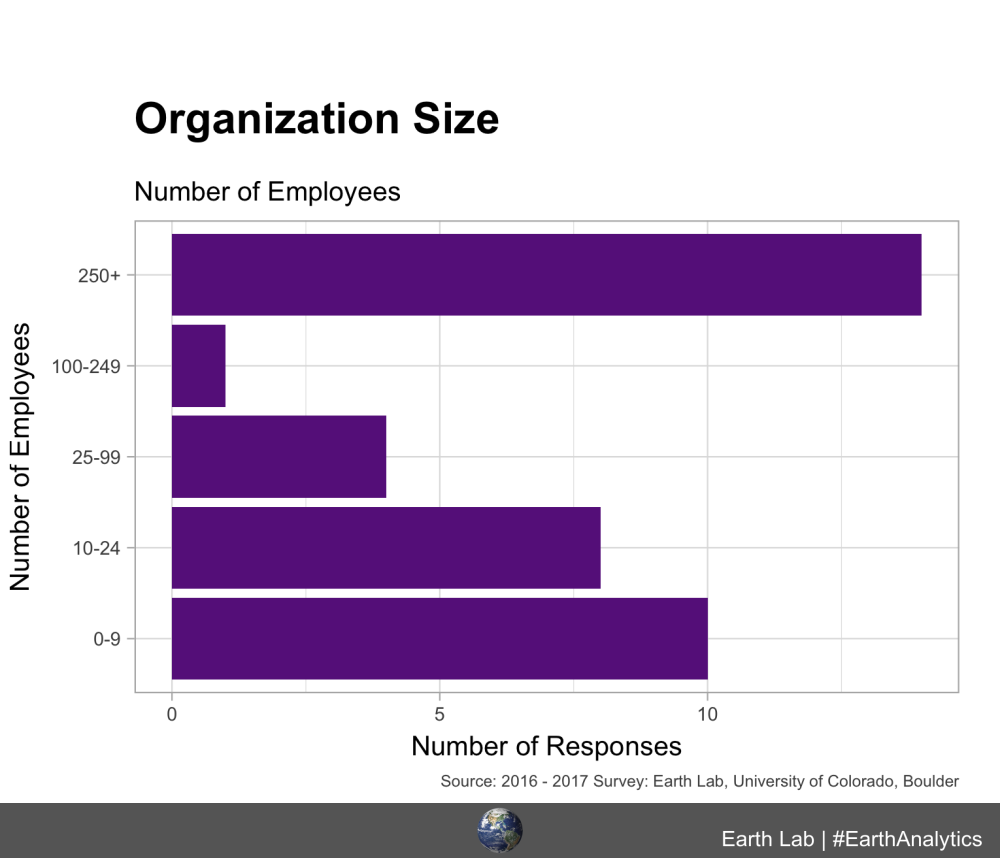
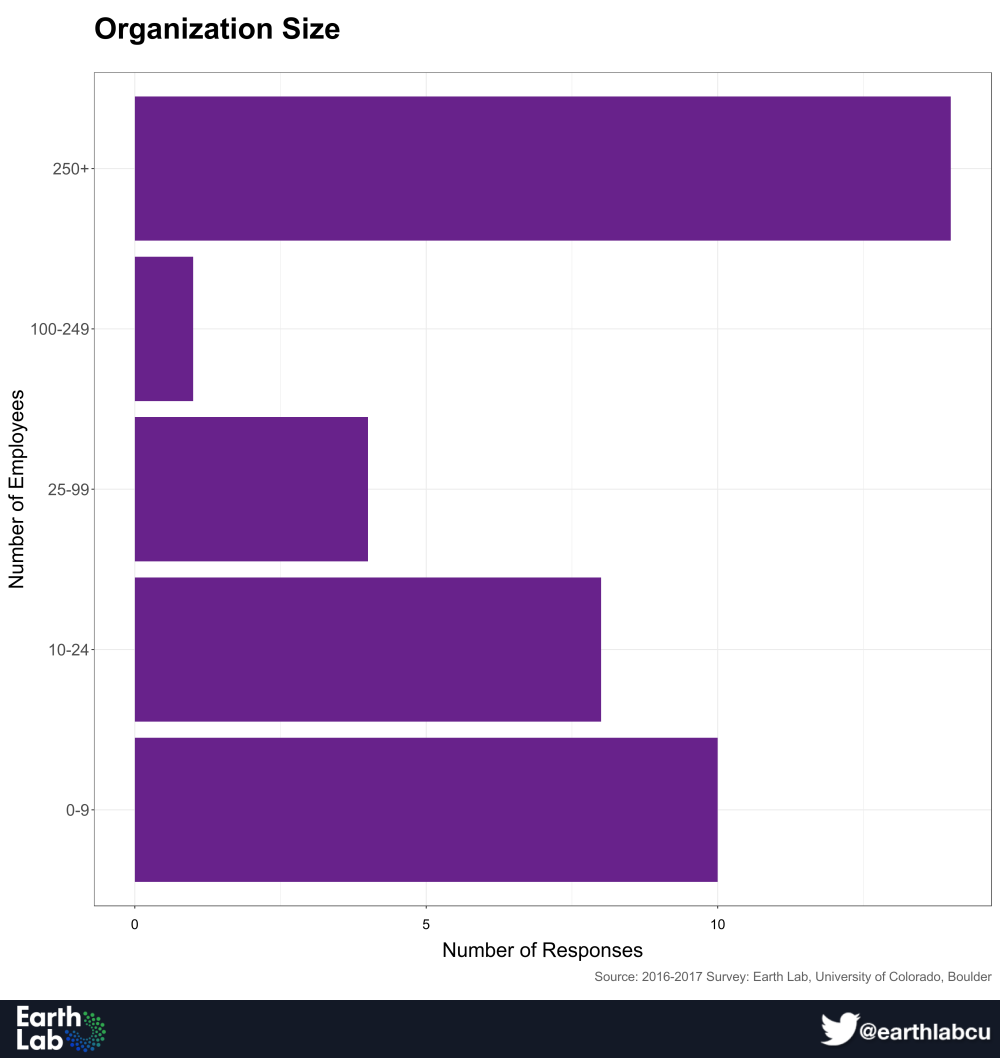
Update blog post on EDS demand with qtoolkit, plot footer, and revised image paths (#133) README.md blog changed_files.txt changed_image_files.txt changed_notebooks.txt changed_rmd_files.txt courses current_branch.txt environment.yml images keys scripts tutorials workshops Revise blog post on eds de
README.md blog changed_files.txt changed_image_files.txt changed_notebooks.txt changed_rmd_files.txt courses current_branch.txt environment.yml images keys scripts tutorials workshops Minor punctuation edit
 
 README.md blog changed_files.txt changed_image_files.txt changed_notebooks.txt changed_rmd_files.txt courses current_branch.txt environment.yml images keys scripts tutorials workshops Revise knit_lessons.R to test build per PR for blog post on four skills
 
 README.md blog changed_files.txt changed_image_files.txt changed_notebooks.txt changed_rmd_files.txt courses current_branch.txt environment.yml images keys scripts tutorials workshops Revert minor punctuation edit to build after update to knit_lessons.R
 
 README.md blog changed_files.txt changed_image_files.txt changed_notebooks.txt changed_rmd_files.txt courses current_branch.txt environment.yml images keys scripts tutorials workshops Hide import of survey results and update organization plot

diff --git a/_posts/blog/2017-10-23-why-earth-data-scientists-are-in-demand.md b/_posts/blog/2017-10-23-why-earth-data-scientists-are-in-demand.md
@@ -1,51 +1,20 @@
 ---
 title: "Why Earth Data Scientists Are in Demand"
 header1: "Why Earth Data Scientists Are In Demand: A Survey of Hiring Managers"
-author: ["Kendra Sand, Science Writer, House of Sand", "Leah A. Wasser, Director of Earth Analytics Education, Earth Lab", "Lauren Herwehe, Program Manager - Earth Analytics Education, Earth Lab"]
+authors: ["Kendra Sand", "Leah Wasser", "Lauren Herwehe"]
 category: blog
-output:
-  html_document: default
-  pdf_document: default
-excerpt: The Earth analytics field sits at the intersection of data science and earth
-  sciences. Discover why hiring managers are seeking earth data science skills.
+excerpt: "The Earth analytics field sits at the intersection of data science and earth sciences. Discover why hiring managers are seeking earth data science skills."
 layout: single
-modified: '2019-04-22'
+modified: '2019-08-06'
 comments: yes
 permalink: /blog/earth-data-scientist-demand/
 sidebar:
-  nav: null
-tags: null
+  nav:
+tags:
 author_profile: no
 ---
 
 
-
-
-
-
-```
-## Error in library(qsurvey): there is no package called 'qsurvey'
-## Error in library(qtoolkit): there is no package called 'qtoolkit'
-## Error in library(magick): there is no package called 'magick'
-```
-
-
-
-```
-## Error in eval(expr, envir, enclos): could not find function "connect_qualtrics"
-## Error in eval(expr, envir, enclos): could not find function "surveys"
-## Error in eval(expr, envir, enclos): could not find function "responses"
-## Error in eval(expr, envir, enclos): could not find function "responses"
-## Error in eval(expr, envir, enclos): could not find function "design"
-## Error in dots_values(...): object 'industry_survey' not found
-```
-
-
-
-
-```
-## Error in eval(expr, envir, enclos): object 'industry_and_science_responses' not found
-```
 
 
 
@@ -182,16 +151,6 @@ computational components and included both basic and applied science. Particular
 tools were more commonly used in particular domains.
 
 
-```
-## Error in data.frame(the_size = industry_and_science_responses$Q4): object 'industry_and_science_responses' not found
-## Error in eval(expr, envir, enclos): object 'org_size' not found
-## Error in grid.draw(plot): object 'org_plot' not found
-## Error in eval(expr, envir, enclos): could not find function "image_read"
-## Error in eval(expr, envir, enclos): could not find function "image_read"
-## Error in eval(expr, envir, enclos): object 'logo_orig' not found
-## Error in eval(expr, envir, enclos): could not find function "image_append"
-## Error in eval(expr, envir, enclos): could not find function "image_write"
-```
 
 
 <figure>
@@ -205,13 +164,6 @@ Source: Earth Lab 2017 Survey
 
 
 
-```
-## Error in eval(expr, envir, enclos): object 'industry_and_science_responses' not found
-## Error in grid.draw(plot): object 'industry_plot' not found
-## Error in eval(expr, envir, enclos): could not find function "image_read"
-## Error in eval(expr, envir, enclos): could not find function "image_append"
-## Error in eval(expr, envir, enclos): could not find function "image_write"
-```
 
 
 <figure>
